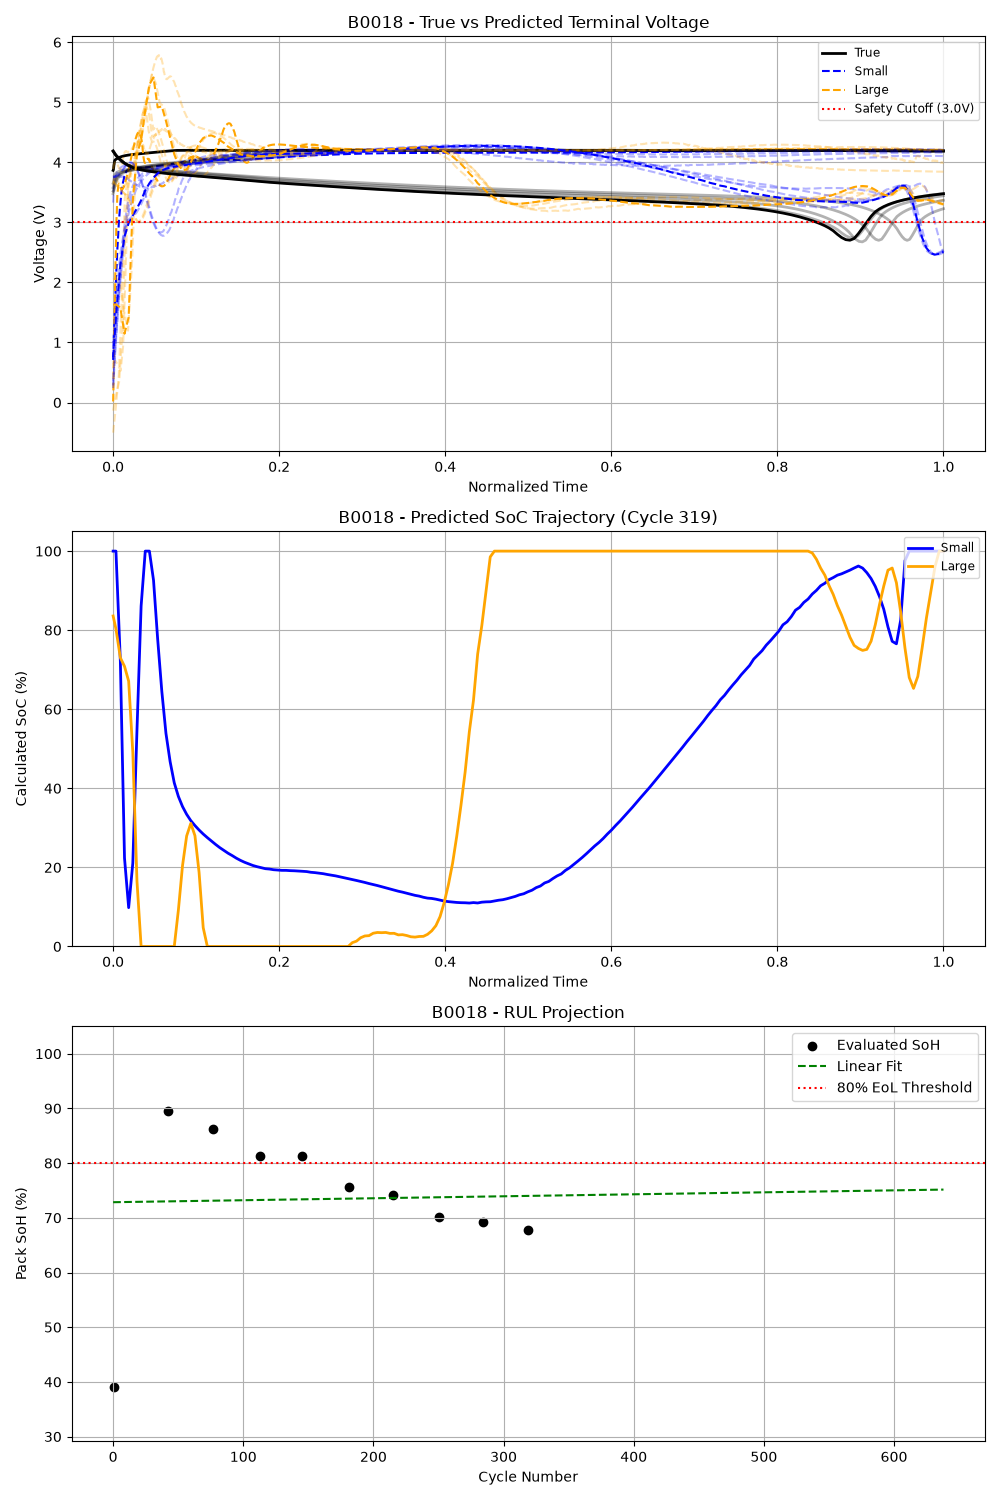
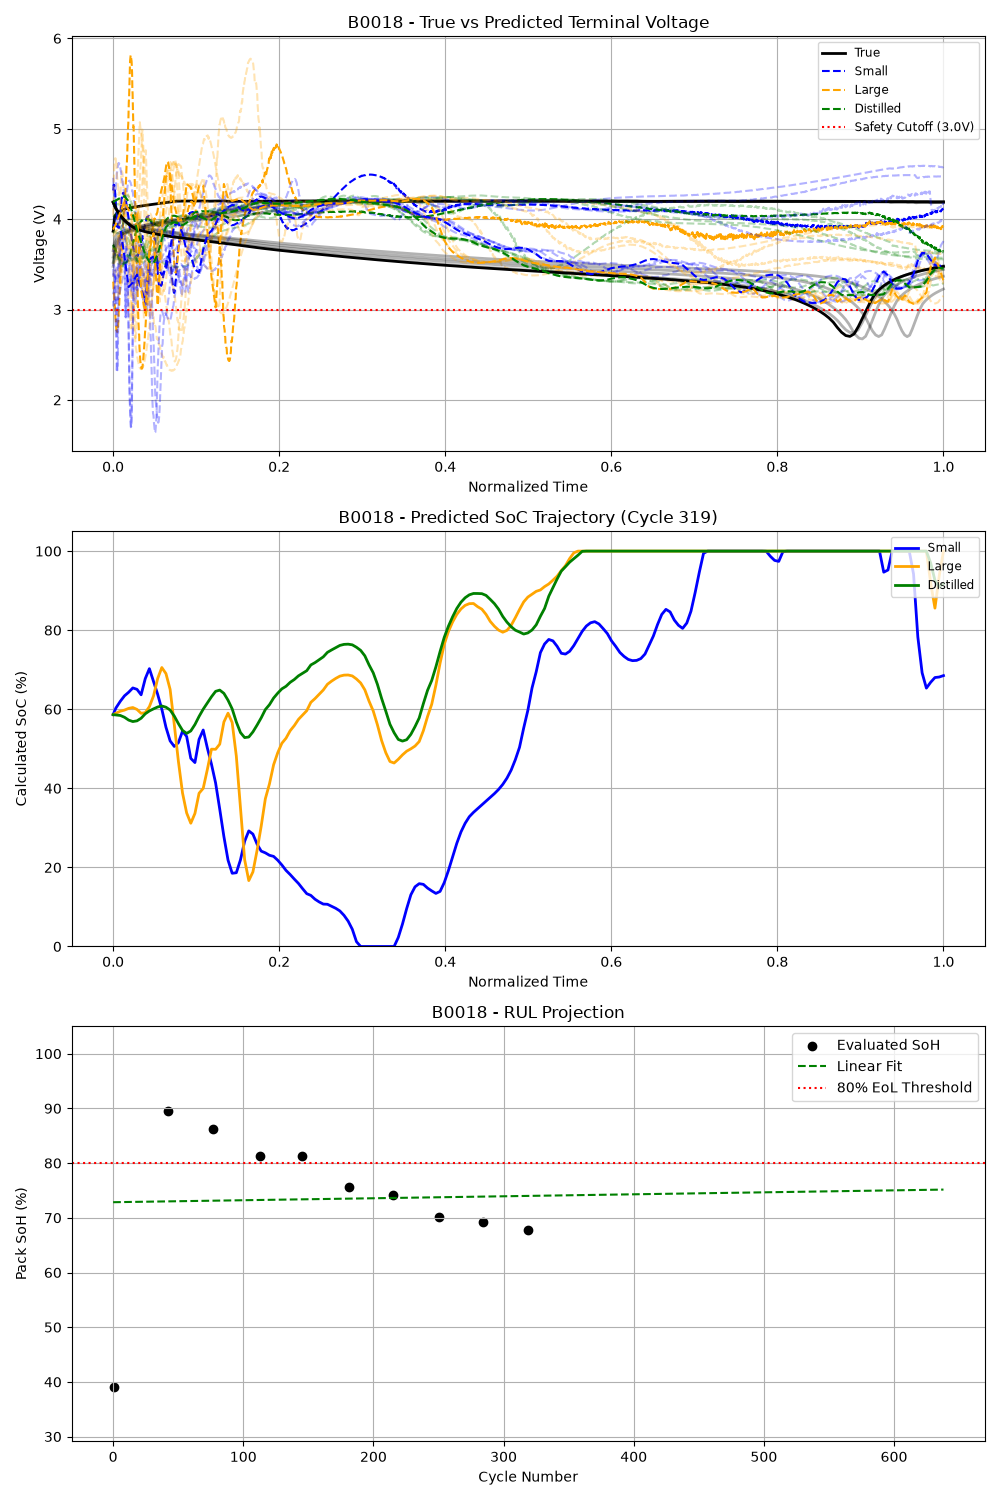
added knowledge distillation and fourier feature encoding hard-contained boundary IC.

diff --git a/src/transfer_learning.py b/src/transfer_learning.py
@@ -1,0 +1,127 @@
+import os
+import deepxde as dde
+dde.config.set_default_float("float64")
+import torch
+torch.set_default_dtype(torch.float64)
+import numpy as np
+import matplotlib.pyplot as plt
+
+from src.utils import get_device
+from src.model import build_pinn_model
+from src.data_loader import get_pinn_training_data
+from src.train import suppress_builtin_print, RichLossCallback
+
+try:
+    from rich.console import Console
+    console = Console()
+except ImportError:
+    class DummyConsole:
+        def rule(self, text): print(text)
+        def print(self, text): print(text)
+        def status(self, text, spinner="dots"):
+            from contextlib import contextmanager
+            @contextmanager
+            def dummy(): yield
+            print(text)
+            return dummy()
+    console = DummyConsole()
+
+def transfer_learning():
+    console.rule("[bold blue]Knowledge Distillation (Transfer Learning)[/bold blue]")
+    
+    device = get_device()
+    data_dir = os.path.join(os.path.dirname(__file__), "..", "data")
+    X_train, Y_train = get_pinn_training_data(data_dir=data_dir)
+    
+    # 1. Load the Teacher Model (Large)
+    console.print("[bold green]Step 1: Loading Pre-trained Teacher Model...[/bold green]")
+    teacher_model, spme_large = build_pinn_model(X_train, Y_train, large=True)
+    teacher_path = os.path.join(os.path.dirname(__file__), "..", "ionpinn_foundation_large.pt")
+    if not os.path.exists(teacher_path):
+        console.print(f"[bold red]Error: Teacher weights not found at {teacher_path}. Please train the large model first.[/bold red]")
+        return
+        
+    teacher_model.net.load_state_dict(torch.load(teacher_path, map_location=device, weights_only=True))
+    teacher_model.net.eval()
+    
+    # 2. Generate Synthetic Dataset
+    console.print("[bold green]Step 2: Generating Synthetic Distillation Dataset...[/bold green]")
+    # Sample 20000 points from the domain [r, x_cell, T, t]
+    X_kd = teacher_model.data.geom.random_points(20000)
+    
+    # Predict the states using the Teacher
+    teacher_model.compile("adam", lr=1e-3)
+    Y_teacher = teacher_model.predict(X_kd)
+    
+    # 3. Setup Distillation Boundary Conditions
+    console.print("[bold green]Step 3: Configuring Student Model with KD Constraints...[/bold green]")
+    extra_bcs = []
+    # State components: 0=c_s, 1=c_e, 2=phi_s, 3=phi_e, 4=j_Li
+    for i in range(5):
+        # We use PointSetBC to force the student to match the teacher's output component i
+        bc_kd = dde.icbc.PointSetBC(X_kd, Y_teacher[:, i:i+1], component=i)
+        extra_bcs.append(bc_kd)
+        
+    # Build the Student Model (Small) passing the extra KD boundary conditions
+    student_model, spme_small = build_pinn_model(X_train, Y_train, large=False, extra_bcs=extra_bcs)
+    
+    # 4. Train the Student
+    console.print("[bold green]Step 4: Training Student Model (Distillation Phase)...[/bold green]")
+    
+    # Dynamically assign weights: 3 PDEs + BCs
+    loss_weights = [1.0, 1.0, 1e-4] # PDEs
+    for bc in student_model.data.bcs:
+        if "PointSetBC" in str(type(bc)):
+            loss_weights.append(100.0) # KD Data
+        elif "OperatorBC" in str(type(bc)) or "PointSetOperatorBC" in str(type(bc)):
+            loss_weights.append(100.0) # Voltage Data
+        else:
+            loss_weights.append(50.0) # BC_Left
+
+    student_model.compile("adam", lr=1e-3, decay=("step", 2000, 0.4), loss_weights=loss_weights)
+    
+    cb = RichLossCallback(display_every=100)
+    resampler = dde.callbacks.PDEPointResampler(period=2000)
+    
+    with console.status("[bold green]Distilling (Adam)...[/bold green]", spinner="dots"):
+        with suppress_builtin_print():
+            student_model.train(iterations=20000, display_every=100, callbacks=[cb, resampler])
+            
+    dde.optimizers.set_LBFGS_options(ftol=1e-12, gtol=1e-12, maxiter=50000, maxcor=50)
+    student_model.compile("L-BFGS", loss_weights=loss_weights)
+    
+    with console.status("[bold green]Distilling (L-BFGS)...[/bold green]", spinner="dots"):
+        with suppress_builtin_print():
+            losshistory, _ = student_model.train(display_every=100, callbacks=[cb])
+            
+    save_path = os.path.join(os.path.dirname(__file__), "..", "ionpinn_distilled_small.pt")
+    torch.save(student_model.net.state_dict(), save_path)
+    console.print(f"[bold green]Success![/bold green] Distilled model saved to [bold cyan]{save_path}[/bold cyan]")
+    
+    # Plotting
+    labels = ["PDE Solid", "PDE Elec", "Kinetics", "BC Left"]
+    if X_train is not None:
+        labels.append("Voltage Data")
+    labels.extend(["KD c_s", "KD c_e", "KD phi_s", "KD phi_e", "KD j_Li"])
+    
+    loss_train = np.array(losshistory.loss_train)
+    num_plots = len(labels)
+    fig, axs = plt.subplots(num_plots, 1, figsize=(10, 3 * num_plots), sharex=False)
+    for i, label in enumerate(labels):
+        if i < loss_train.shape[1]:
+            axs[i].plot(losshistory.steps, loss_train[:, i], label="Train (Student)", color="purple")
+        axs[i].axhline(y=1e-4, color="red", linestyle=":", linewidth=2, label="Target Goal ($10^{-4}$)")
+        axs[i].set_ylabel("Loss")
+        axs[i].set_yscale("log")
+        axs[i].set_title(label)
+        axs[i].legend(loc="upper left")
+        axs[i].grid(True)
+    axs[-1].set_xlabel("Epochs")
+    plt.tight_layout()
+    plot_path = os.path.join(os.path.dirname(__file__), "..", "kd_loss_plot.png")
+    plt.savefig(plot_path)
+    console.print(f"[bold green]Success![/bold green] Saved distillation loss plot to [bold cyan]{plot_path}[/bold cyan]")
+    plt.show()
+
+if __name__ == "__main__":
+    transfer_learning()

diff --git a/src/train.py b/src/train.py
@@ -37,28 +37,10 @@ except ImportError:
 
 @contextmanager
 def suppress_builtin_print():
-    """Temporarily replaces Python's built-in print to silence DeepXDE's hardcoded prints and reformat L-BFGS steps in Rich."""
+    """Temporarily replaces Python's built-in print to silence DeepXDE's hardcoded prints."""
     original_print = builtins.print
     def _smart_print(*args, **kwargs):
-        if not args:
-            return
-        msg = str(args[0])
-        # DeepXDE prints steps like: "11000     [6.23e-01, 9.03e-04, 2.02e-02, 6.60e-01] ..."
-        # Check if the string starts with a number (the step)
-        parts = msg.split()
-        if len(parts) >= 2 and parts[0].isdigit() and parts[1].startswith("["):
-            step = parts[0]
-            try:
-                # Parse the bracketed string for train losses
-                loss_str_part = msg[msg.find("[")+1:msg.find("]")]
-                losses = [float(x.strip()) for x in loss_str_part.split(",")]
-                labels = ["PDE Solid", "PDE Elec", "Kinetics", "BC Left", "IC c_s", "Voltage Data"]
-                # Only zip up to the number of available labels/losses
-                rich_str = " | ".join([f"[cyan]{lbl}:[/cyan] {val:.2e}" for lbl, val in zip(labels, losses)])
-                console.print(f"[bold yellow]Step {step}[/bold yellow] | {rich_str}")
-            except Exception:
-                pass # Silently drop if parsing fails
-        # Otherwise, silently drop (suppress)
+        pass # Silently drop DeepXDE's raw prints, RichLossCallback will handle formatting
     builtins.print = _smart_print
     try:
         yield
@@ -76,7 +58,12 @@ class RichLossCallback(Callback):
         step = self.model.train_state.step
         if step % self.display_every == 0:
             loss_train = self.model.train_state.loss_train
-            labels = ["PDE Solid", "PDE Elec", "Kinetics", "BC Left", "IC c_s", "Voltage Data"]
+            if len(loss_train) == 5:
+                labels = ["PDE Solid", "PDE Elec", "Kinetics", "BC Left", "Voltage Data"]
+            elif len(loss_train) == 6:
+                labels = ["PDE Solid", "PDE Elec", "Kinetics", "BC Left", "IC c_s", "Voltage Data"]
+            else:
+                labels = [f"Loss {i}" for i in range(len(loss_train))]
             # Formatting them beautifully
             loss_str = " | ".join([f"[cyan]{lbl}:[/cyan] {val:.2e}" for lbl, val in zip(labels, loss_train)])
             console.print(f"[bold yellow]Step {step}[/bold yellow] | {loss_str}")
@@ -92,11 +79,11 @@ def train(epochs, learning_rate, plot_loss, skip_large):
     logger.info(f"Loaded empirical training data with {len(X_train)} points." if X_train is not None else "No empirical data loaded.")
 
     def train_model(model, spme, name, cb):
-        # Weights: [PDE Solid, PDE Elec, Kinetics, BC Left, IC c_s, Voltage Data (if present)]
-        num_losses = len(model.data.bcs) + 3 # 3 PDEs + BCs
-        loss_weights = [1.0, 1.0, 1e-4, 50.0, 50.0]
-        if num_losses > 5:
+        # Weights: [PDE Solid, PDE Elec, Kinetics, BC Left, Voltage Data (if present)]
+        loss_weights = [1.0, 1.0, 1e-4, 50.0]
+        if len(model.data.bcs) > 1:
             loss_weights.append(100.0) # High weight for actual voltage data
+            
         model.compile("adam", lr=learning_rate, decay=("step", 2000, 0.4), loss_weights=loss_weights)
 
         logger.info(f"Starting DeepXDE PINN optimization (Stage 1: Adam) for {name} model...")
@@ -144,7 +131,8 @@ def train(epochs, learning_rate, plot_loss, skip_large):
 
     # 7. Plot Loss if requested
     if plot_loss:
-        labels = ["PDE Solid", "PDE Elec", "Kinetics", "BC Left", "IC c_s", "Voltage Data"]
+        labels = ["PDE Solid", "PDE Elec", "Kinetics", "BC Left", "Voltage Data"]
+
         loss_train_small = np.array(history_small.loss_train)
         has_test_small = hasattr(history_small, "loss_test") and len(history_small.loss_test) > 0
         if has_test_small:
@@ -160,11 +148,12 @@ def train(epochs, learning_rate, plot_loss, skip_large):
         fig, axs = plt.subplots(num_plots, 1, figsize=(10, 3 * num_plots), sharex=False)
 
         for i, label in enumerate(labels):
-            axs[i].plot(history_small.steps, loss_train_small[:, i], label="Train (Small)", color="blue")
-            if has_test_small:
-                axs[i].plot(history_small.steps, loss_test_small[:, i], label="Validation (Small)", color="lightblue", linestyle="--")
+            if i < loss_train_small.shape[1]:
+                axs[i].plot(history_small.steps, loss_train_small[:, i], label="Train (Small)", color="blue")
+                if has_test_small:
+                    axs[i].plot(history_small.steps, loss_test_small[:, i], label="Validation (Small)", color="lightblue", linestyle="--")
 
-            if not skip_large:
+            if not skip_large and i < loss_train_large.shape[1]:
                 axs[i].plot(history_large.steps, loss_train_large[:, i], label="Train (Large)", color="green")
                 if has_test_large:
                     axs[i].plot(history_large.steps, loss_test_large[:, i], label="Validation (Large)", color="lightgreen", linestyle="--")

diff --git a/src/model.py b/src/model.py
@@ -100,7 +100,7 @@ class SPMePhysics:
         # DeepXDE will automatically enforce that all three of these equal 0
         return [loss_solid, loss_electrolyte, loss_kinetics]
 
-def build_pinn_model(X_train=None, Y_train=None, large=False):
+def build_pinn_model(X_train=None, Y_train=None, large=False, extra_bcs=None):
     """
     Builds the DeepXDE Model that combines the empirical data and the SPMe physics.
     """
@@ -118,10 +118,12 @@ def build_pinn_model(X_train=None, Y_train=None, large=False):
         
     bc_l = dde.icbc.DirichletBC(geomtime, lambda x: 1.0, boundary_l, component=0)
     
-    # Soft Initial Condition requiring c_s to start at 0.5
-    ic_c_s = dde.icbc.IC(geomtime, lambda x: 0.5, lambda _, on_initial: on_initial, component=0)
+    # We hard-constrain the IC via output transform for both models,
+    # so we don't include it in the soft loss constraints.
+    bcs = [bc_l]
     
-    bcs = [bc_l, ic_c_s]
+    if extra_bcs is not None:
+        bcs.extend(extra_bcs)
     
     # Add Experimental Data (Voltage)
     if X_train is not None and Y_train is not None:
@@ -144,9 +146,23 @@ def build_pinn_model(X_train=None, Y_train=None, large=False):
     
     # Define DeepXDE Network (FNN)
     if large:
-        net = dde.nn.FNN([4] + [128, 128, 128, 128] + [5], "swish", "Glorot normal")
+        # Large model with Strategy 1 and Strategy 2
+        net = dde.nn.FNN([12] + [128, 128, 128, 128] + [5], "swish", "Glorot normal")
     else:
-        net = dde.nn.FNN([4] + [32, 32] + [5], "swish", "Glorot normal")
+        # Small model with Strategy 1 and Strategy 2
+        net = dde.nn.FNN([12] + [32, 32] + [5], "swish", "Glorot normal")
+        
+    # Strategy 1: Fourier Features for input coordinates (applied uniformly)
+    def feature_transform(x):
+        return torch.cat([x, torch.sin(np.pi * x), torch.cos(np.pi * x)], dim=1)
+    net.apply_feature_transform(feature_transform)
+    
+    # Strategy 2: Hard-constrain the Initial Condition (c_s = 0.5 at t=0) (applied uniformly)
+    def output_transform(x, y):
+        t = x[:, 3:4]
+        c_s_new = 0.5 + t * y[:, 0:1]
+        return torch.cat([c_s_new, y[:, 1:]], dim=1)
+    net.apply_output_transform(output_transform)
     
     model = dde.Model(data, net)
     return model, spme

diff --git a/src/evaluate_metrics.py b/src/evaluate_metrics.py
@@ -288,6 +288,10 @@ def main():
     if load_model_weights(model_large, "ionpinn_foundation_large.pt", device, console):
         models["Large"] = model_large
         
+    model_distilled, _ = build_pinn_model(large=False)
+    if load_model_weights(model_distilled, "ionpinn_distilled_small.pt", device, console):
+        models["Distilled"] = model_distilled
+        
     if not models:
         console.print("[bold red]No models could be loaded. Exiting.[/bold red]")
         return

diff --git a/README.md b/README.md
@@ -27,37 +27,60 @@ poetry install
 This will automatically set up a virtual environment and install all required packages (including PyTorch, DeepXDE, Rich, Matplotlib, Pandas, and ONNX Runtime). It will detect if you have an NVIDIA GPU and install CUDA-compatible Torch binaries where applicable.
 
 ### 2. Run the Training Pipeline
-To train the Foundation PINN on the Dataset 5 (aging) and Dataset 11 (transient) CSVs, run:
+To train the Large and Small Foundation PINNs on the aging and transient CSVs, run:
 ```bash
-poetry run python -m src/train.py
+poetry run python src/train.py
 ```
 
 You can customize the training process with several command-line arguments:
 *   `--epochs`: Number of training iterations (default: 40000)
 *   `--learning_rate`: Learning rate for the optimizer (default: 1e-3)
 *   `--plot_loss`: Add this flag to plot the training and test loss using `matplotlib` when training is complete
+*   `--skip_large`: Skip training the large foundation model and only train the small baseline.
 
-For example, to train for 500 epochs with a custom learning rate and plot the results:
+For example, to train for 20000 epochs with a custom learning rate and plot the results:
 ```bash
-poetry run python -m src.train --epochs 20000 --learning_rate 0.005 --plot_loss
+poetry run python src/train.py --epochs 20000 --learning_rate 0.005 --plot_loss
 ```
 *Note: The script dynamically checks for a GPU and prints out whether it's using CUDA or falling back to the CPU.*
 
-### 3. Export to ONNX
+### 3. Knowledge Distillation (Transfer Learning)
+Once the Large foundation model is trained, you can distill its learned physics manifold into the lightweight Small model for embedded deployment:
+```bash
+poetry run python src/transfer_learning.py
+```
+This script evaluates the Teacher model over a dense grid of 20,000 synthetic points and uses DeepXDE's `PointSetBC` to distill the smooth physics manifold into the Student model, saving the result as `ionpinn_distilled_small.pt`.
+
+### 4. Export to ONNX
 Once the model is trained (and weights saved as `.pt`), you can export it for embedded usage:
 ```bash
-poetry run python -m src/export.py
+poetry run python src/export.py
 ```
-This script will produce `ionpinn_foundation.onnx` in the root folder, equipped with dynamic batching properties ready for edge deployment.
+This script will produce ONNX files in the root folder, equipped with dynamic batching properties ready for edge deployment.
 
-### 4. Evaluate Metrics
-You can evaluate the trained model's performance on aging datasets using the `evaluate_metrics.py` script. This script loads the saved weights, calculates Pack-Level SoC, SoH, and RUL across multiple cycles, and outputs a live `rich` terminal dashboard alongside a generated Matplotlib degradation report (`evaluation_report.png`).
+### 5. Evaluate Metrics
+You can evaluate the models' performance on aging datasets using the `evaluate_metrics.py` script. This script loads the Large, Small, and Distilled models and calculates Pack-Level SoC, SoH, and RUL across multiple cycles, outputting a live `rich` terminal dashboard alongside generated Matplotlib degradation reports side-by-side (`evaluation_report_*.png`).
 ```bash
 poetry run python src/evaluate_metrics.py
 ```
 
-### 5. Profile Model
+### 6. Profile Model
 You can profile the model's memory footprint and FLOPs for edge embedded deployment using the `profile_model.py` script.
 ```bash
 poetry run python src/profile_model.py
 ```
+
+## 📁 Outputs & Artifacts
+
+### PyTorch Models (`.pt`)
+*   `ionpinn_foundation_large.pt`: The heavy, overparameterized foundation baseline. Highly accurate but too large for embedded hardware.
+*   `ionpinn_foundation_small.pt`: The lightweight embedded foundation model trained natively on the physics and empirical data.
+*   `ionpinn_distilled_small.pt`: The lightweight embedded model generated via Knowledge Distillation. It mimics the large foundation model's learned physics manifold, resulting in higher stability and convergence than the native small model.
+
+### Plots & Reports (`.png`)
+*   `loss_plot.png`: Generated by `src/train.py` (when using `--plot_loss`). Displays the Adam and L-BFGS training loss convergence over time, tracking the 3 underlying PDEs and boundary conditions.
+*   `kd_loss_plot.png`: Generated by `src/transfer_learning.py`. Tracks the convergence of the Student model as it learns to regress to the synthetic targets produced by the Teacher model.
+*   `evaluation_report_*.png`: Generated by `src/evaluate_metrics.py`. A multi-panel degradation report containing:
+    1.  **Terminal Voltage:** Compares the true empirical voltage curve to the predictions of the Large, Small, and Distilled models over the length of the discharge cycle.
+    2.  **SoC Trajectory:** Plots the real-time calculated State of Charge (SoC) for the evaluated cycle.
+    3.  **Pack SoH & RUL:** A linear degradation scatterplot that tracks State of Health (SoH) fade over many cycles, projecting the Remaining Useful Life (RUL) until the 80% End-of-Life threshold is crossed.

diff --git a/notes/training_strategies.md b/notes/training_strategies.md
@@ -57,4 +57,25 @@ To validate model efficiency for embedded microcontroller deployment, two archit
 | Parameter / Feature | Embedded Model (Target) | Large Baseline Model |
 | :--- | :--- | :--- |
 | **Architecture** | FNN [3, 32, 32, 5] | FNN [3, 128, 128, 128, 128, 5] |
-| **Primary Metric** | Residual Accuracy ($\le 10^{-4}$) vs. Memory/MAC Footprint[cite: 3] | Theoretical Loss Floor & Parameter Capacity Test |
+| **Primary Metric** | Residual Accuracy ($\le 10^{-4}$) vs. Memory/MAC Footprint[cite: 3] | Theoretical Loss Floor & Parameter Capacity Test |
+
+---
+
+## 5. Capacity Enhancement Strategies (Small Model)
+
+To bridge the performance gap between large parameter-heavy baselines and embedded-target networks, specific techniques are employed to increase parameter efficiency without increasing MACs significantly:
+
+### 5.1 Fourier Feature Encoding (Input Transform)
+* **Problem:** Small fully-connected networks suffer from spectral bias and struggle to learn sharp, high-frequency physical dynamics, leading to large residual errors.
+* **Solution:** Input coordinates $x = [r, x_{cell}, T, t]$ are mapped into a higher-dimensional space using sinusoidal functions before entering the network: $\hat{x} = [x, \sin(\pi x), \cos(\pi x)]$.
+* **Impact:** Drastically improves the expressiveness of the model, enabling the $[32, 32]$ architecture to capture non-linear PDE manifolds.
+
+### 5.2 Hard-Constrained Boundary / Initial Conditions
+* **Problem:** Enforcing initial conditions (e.g., $c_s = 0.5$ at $t=0$) via soft loss penalties (e.g., `IC c_s` with weight `50.0`) consumes valuable capacity in small networks and creates conflicting gradients.
+* **Solution:** Apply an output transform to the network that mathematically forces the condition to hold true by definition. For example, $c_s(t) = 0.5 + t \cdot \text{NN}_0(x,t)$. 
+* **Impact:** Eliminates the IC loss term entirely, removing gradient conflicts and freeing up the network's capacity to focus exclusively on resolving the PDEs.
+
+### 5.3 Knowledge Distillation (Teacher-Student Transfer Learning)
+* **Problem:** Even with architectural enhancements, discovering the complex loss manifold representing coupled electrochemical PDEs is exceedingly difficult for a small network from scratch.
+* **Solution:** Train the overparameterized baseline model (Teacher) first. Then, sample a dense synthetic dataset of collocation points (e.g., 20,000 points) and evaluate them using the Teacher to produce continuous, high-fidelity state targets. The embedded model (Student) is then trained to minimize the MSE between its predictions and the Teacher's synthetic dataset (via `PointSetBC`), alongside the standard PDE residuals.
+* **Impact:** The Teacher "smooths" the highly-coupled, noisy PDE physics into a direct data-fitting objective for the Student. The Student can easily regress to the smooth Teacher manifold, achieving convergence and accuracy that it could never attain by solving the raw PDEs alone.
